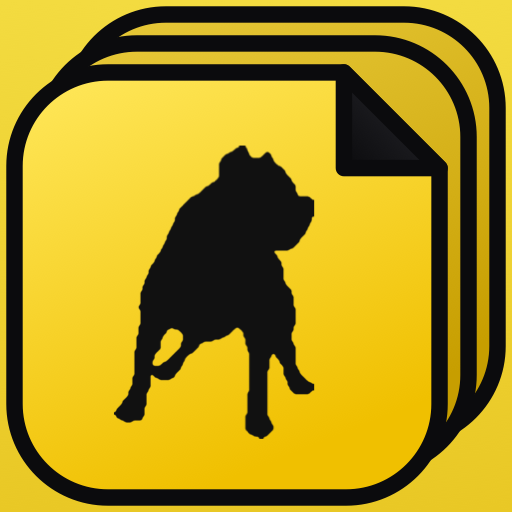
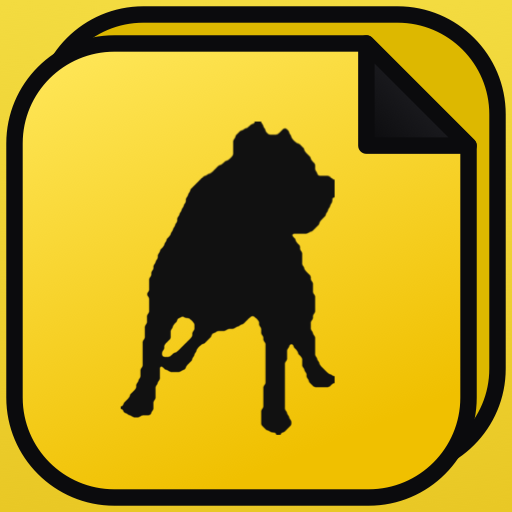
One page behind, not a stack
His verdict on three sheets: "don't make it 3d, only one page below and
it will be fine — like an app icon with radius but folded corners."

He is right about why. Each extra sliver adds another parallel edge, and
by the third the mark stops reading as a page with something behind it
and starts reading as a perspective DRAWING of a stack, which is a
different kind of object from a flat brand mark. One sheet behind says
"there is more" and then stops saying things.

The page behind is a flat tone now rather than a gradient. Shading is
most of what was making it read three-dimensional — a lit-and-shadowed
sheet is a rendering, a flat one is a graphic. The front sheet keeps its
gradient, because that is the app-icon look he approved, and with one
plain shade under it the mark is a rounded square with a turned corner
and a hint of a page beneath. Which is the description he gave.

Icons regenerated from it, same command, same component.

diff --git a/src/apps/dialer/PagesMark.tsx b/src/apps/dialer/PagesMark.tsx
@@ -20,15 +20,23 @@
  */
 
 /**
- * Three sheets, each SHEET across, each STEP up and to the right of the one in
- * front of it — so the whole stack still fills the 100x100 the mark is drawn in.
+ * TWO sheets — the page, and one page behind it. Not three.
  *
- * Up and to the RIGHT specifically, because that is where the front sheet's
- * corner is turned. A stack offset any other way would show its slivers on an
- * edge the fold does nothing with, and the two devices would just be two
- * devices. This way the fold opens onto the page behind it.
+ * Three was tried and the operator's verdict was "don't make it 3d, only one
+ * page below and it will be fine". He is right: each extra sliver adds another
+ * parallel edge, and by the third the mark stops reading as a directory with a
+ * page behind it and starts reading as a rendering of a stack — a perspective
+ * drawing, which is a different kind of thing from a flat brand mark. One
+ * sheet behind says "there is more" and stops.
+ *
+ * Each is SHEET across, offset by STEP up and to the right, so the pair still
+ * fills the 100x100 the mark is drawn in. Up and to the RIGHT specifically,
+ * because that is where the front sheet's corner is turned — offset any other
+ * way and the sliver shows on an edge the fold does nothing with, leaving two
+ * unrelated devices instead of one. This way the fold opens onto the page
+ * behind it.
  */
-const SHEETS = 3
+const SHEETS = 2
 const STEP = 6
 const SHEET = 100 - STEP * (SHEETS - 1)
 
@@ -131,12 +139,14 @@ export function PagesMark({ className }: { className?: string }) {
           <stop offset="0" stopColor="#FFE85C" />
           <stop offset="1" stopColor="#F0C000" />
         </linearGradient>
-        {/* The sheets behind sit in the front one's shadow, and further back is
-            further down. Two stops rather than a flat fill so a deep stack does
-            not read as a flat band of colour. */}
-        <linearGradient id="pm-back" x1="0" y1="0" x2="0.4" y2="1">
-          <stop offset="0" stopColor="#E8CA3A" />
-          <stop offset="1" stopColor="#C79E00" />
+        {/* The page behind, as a FLAT tone. It was a gradient while there were
+            two of them, which is what made the mark read as a perspective
+            drawing of a stack rather than as an icon — shading is what says
+            "three-dimensional". One flat shade under the front sheet's gradient
+            says "there is another page" and nothing more. */}
+        <linearGradient id="pm-back" x1="0" y1="0" x2="0" y2="1">
+          <stop offset="0" stopColor="#DDB800" />
+          <stop offset="1" stopColor="#DDB800" />
         </linearGradient>
         {/* The underside of a turned page catches least light at the tip. */}
         <linearGradient id="pm-fold" x1="1" y1="0" x2="0" y2="1">
